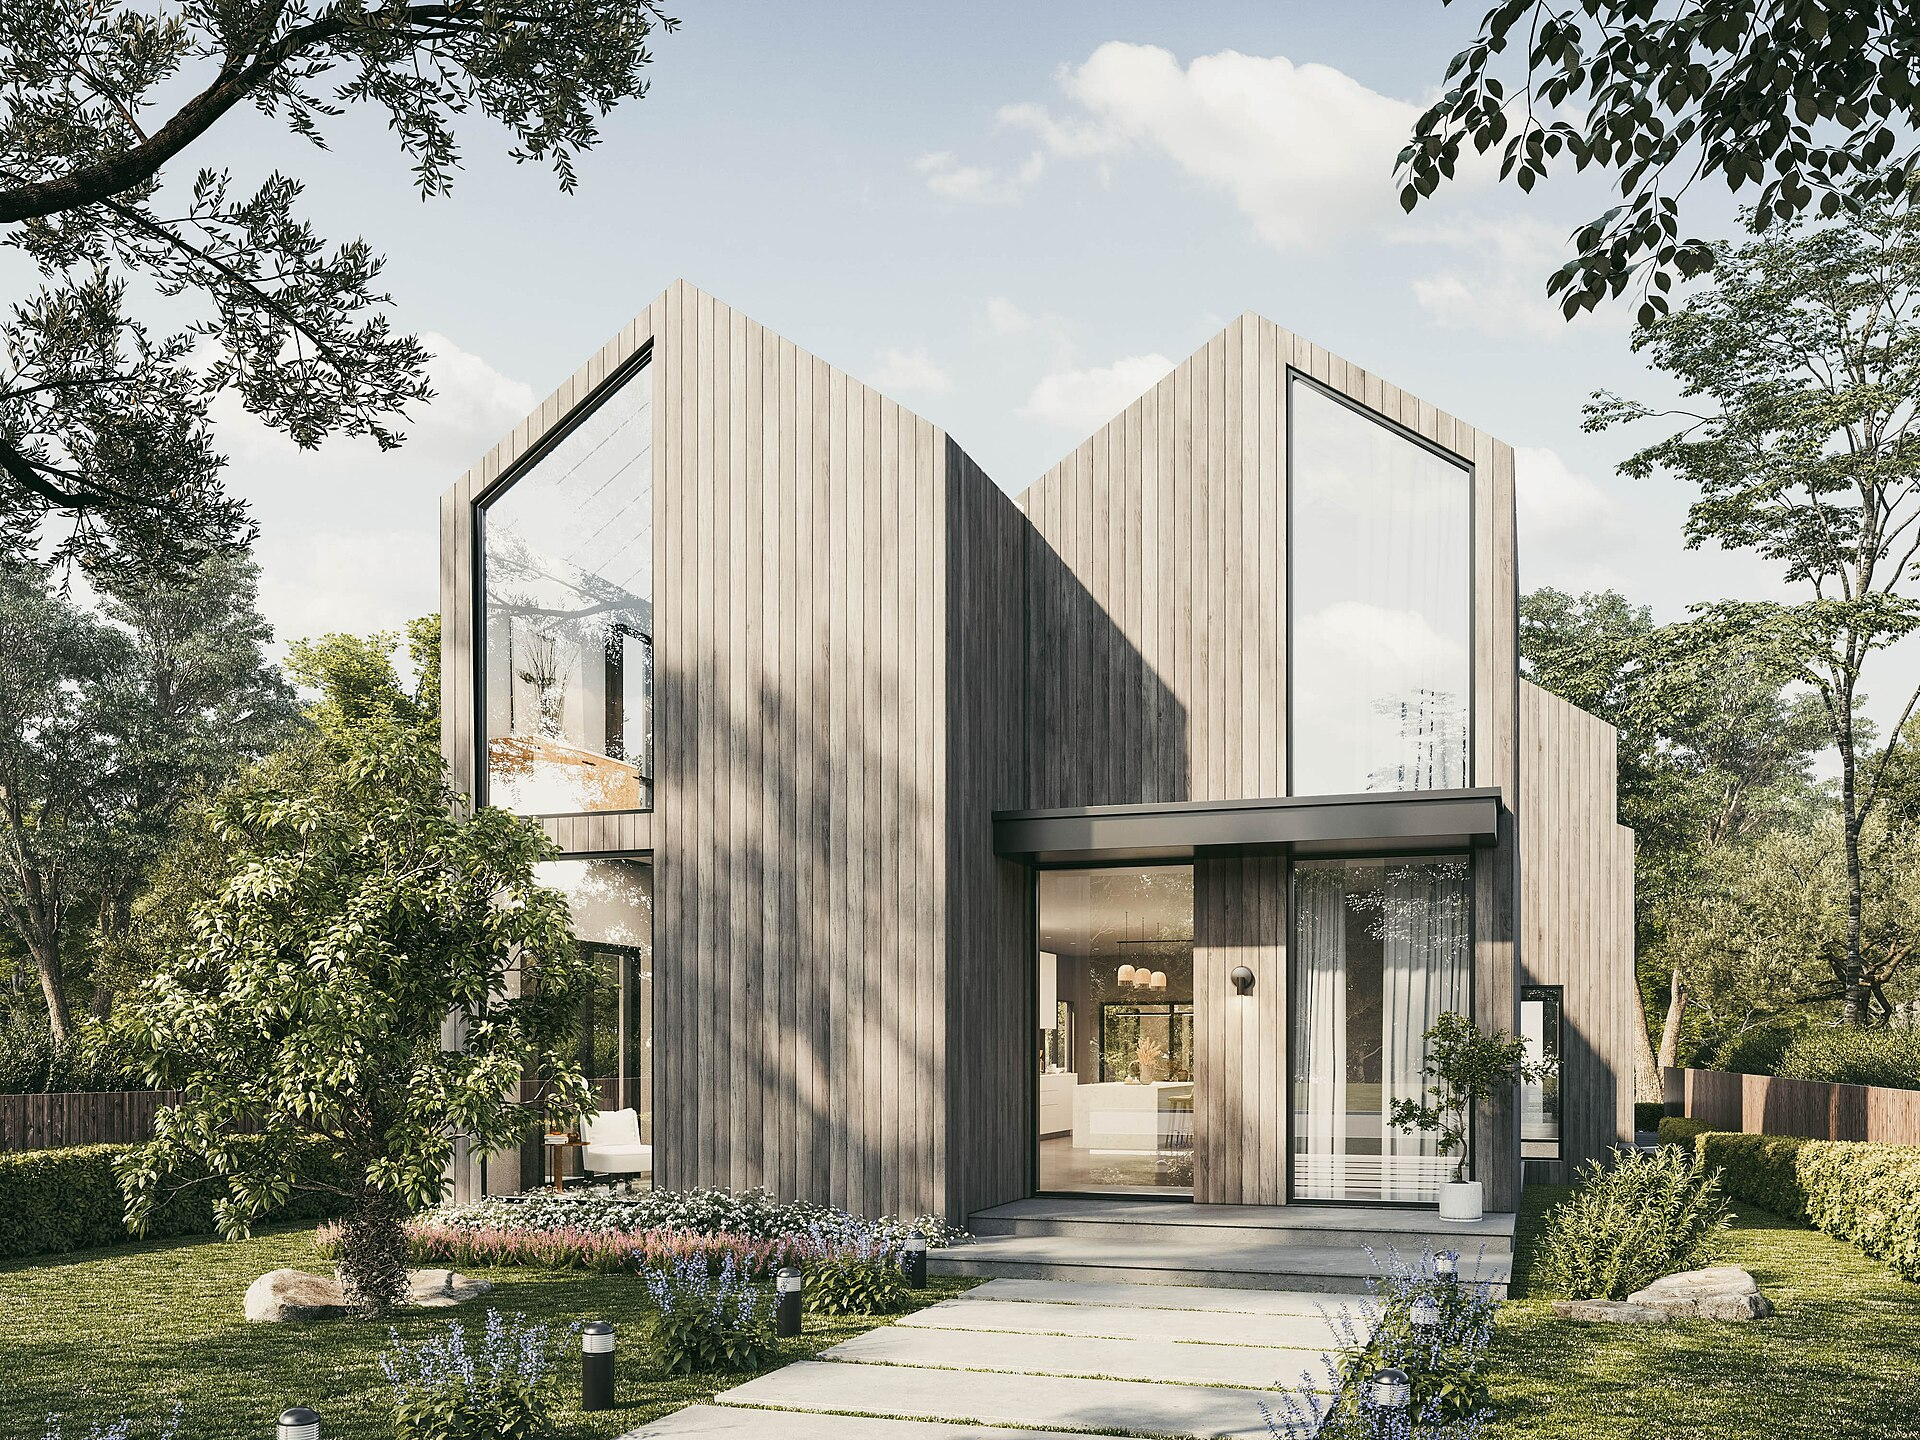
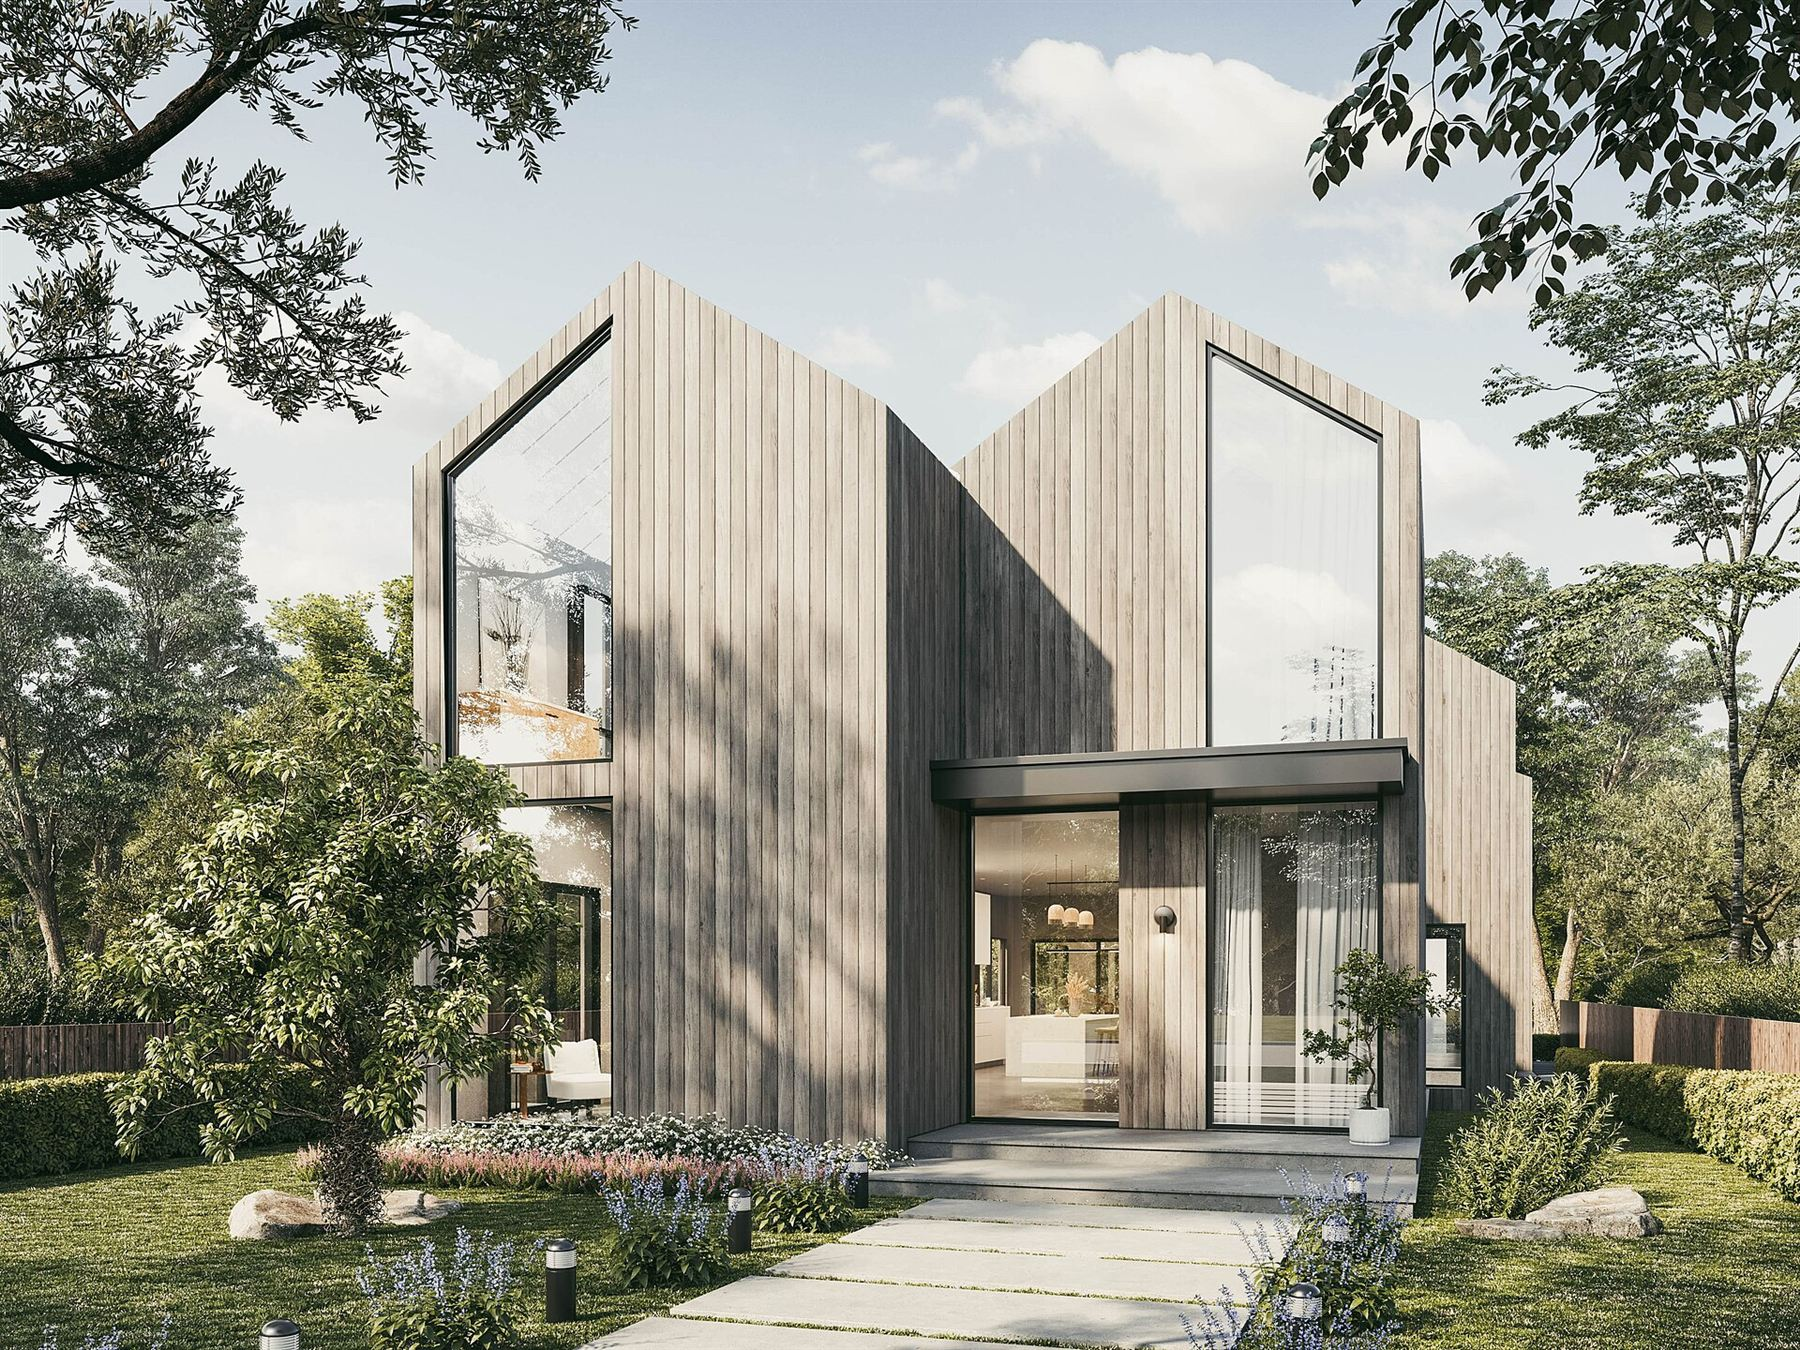
Add files via upload

diff --git a/assets/css/style.css b/assets/css/style.css
@@ -527,7 +527,37 @@ h1, h2, h3 {
   transition: color var(--transition);
 }
 .footer-nav a:hover { color: var(--color-bg); }
-.copyright { font-size: 12.5px; }
+.footer-contact {
+  font-size: 12.5px;
+  line-height: 1.7;
+  color: #a8a196;
+}
+.copyright { font-size: 12.5px; width: 100%; padding-top: 8px; border-top: 1px solid var(--color-line-light); }
+
+/* ---------- WhatsApp floating button ---------- */
+.whatsapp-btn {
+  position: fixed;
+  right: 28px;
+  bottom: 28px;
+  z-index: 600;
+  width: 58px;
+  height: 58px;
+  border-radius: 50%;
+  background: #25d366;
+  color: #fff;
+  display: flex;
+  align-items: center;
+  justify-content: center;
+  box-shadow: 0 8px 24px rgba(0,0,0,0.25);
+  transition: transform var(--transition), box-shadow var(--transition);
+}
+.whatsapp-btn svg { width: 30px; height: 30px; }
+.whatsapp-btn:hover { transform: scale(1.08); box-shadow: 0 10px 28px rgba(0,0,0,0.32); }
+
+@media (max-width: 620px) {
+  .whatsapp-btn { right: 18px; bottom: 18px; width: 52px; height: 52px; }
+  .whatsapp-btn svg { width: 26px; height: 26px; }
+}
 
 /* ---------- Reveal animation ---------- */
 .reveal {